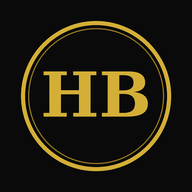
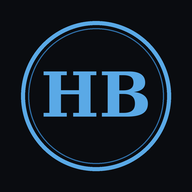
Add files via upload

Changed region(s): [[0.0938, 0.0938, 0.9062, 0.9062], [0.2188, 0.3438, 0.7812, 0.625]]

diff --git a/index.html b/index.html
@@ -1,7 +1,8 @@
 <!DOCTYPE html>
-<html lang="pt-BR">
+<html lang="pt-BR" translate="no">
 <head>
 <meta charset="UTF-8">
+<meta name="google" content="notranslate">
 <meta name="viewport" content="width=device-width, initial-scale=1.0">
 <title>Hércules Barber — Agendamento Online</title>
 <link rel="icon" href="icon-192.png">
@@ -15,7 +16,7 @@
 <link href="https://fonts.googleapis.com/css2?family=Playfair+Display:wght@500;700;900&family=Inter:wght@400;500;600;700&display=swap" rel="stylesheet">
 <style>
 :root{
-  --gold:#d4af37; --gold-light:#f0d878; --gold-dark:#9a7b1f;
+  --gold:#5aa9e6; --gold-light:#a8d4f7; --gold-dark:#2f6fa8;
   --black:#0a0a0a; --dark:#111; --dark2:#1a1a1a; --line:#2a2a2a;
   --text:#eee; --muted:#999;
 }
@@ -27,10 +28,10 @@ img{max-width:100%}
 a{color:var(--gold);text-decoration:none}
 .container{max-width:1100px;margin:0 auto;padding:0 20px}
 .btn{display:inline-block;padding:14px 32px;border-radius:6px;font-weight:600;font-size:15px;cursor:pointer;border:none;transition:.25s;letter-spacing:.5px}
-.btn-gold{background:linear-gradient(135deg,var(--gold-light),var(--gold),var(--gold-dark));color:#111;box-shadow:0 4px 20px rgba(212,175,55,.35)}
-.btn-gold:hover{transform:translateY(-2px);box-shadow:0 8px 28px rgba(212,175,55,.5)}
+.btn-gold{background:linear-gradient(135deg,var(--gold-light),var(--gold),var(--gold-dark));color:#111;box-shadow:0 4px 20px rgba(90,169,230,.35)}
+.btn-gold:hover{transform:translateY(-2px);box-shadow:0 8px 28px rgba(90,169,230,.5)}
 .btn-outline{background:transparent;color:var(--gold);border:1px solid var(--gold)}
-.btn-outline:hover{background:rgba(212,175,55,.1)}
+.btn-outline:hover{background:rgba(90,169,230,.1)}
 .btn-danger{background:transparent;color:#e05c5c;border:1px solid #e05c5c;font-size:13px;padding:7px 14px}
 .btn-danger:hover{background:rgba(224,92,92,.12)}
 .gold-text{background:linear-gradient(135deg,var(--gold-light),var(--gold),var(--gold-dark));-webkit-background-clip:text;background-clip:text;color:transparent}
@@ -46,8 +47,8 @@ header{position:fixed;top:0;left:0;right:0;z-index:100;background:rgba(10,10,10,
 .nav-links a:hover{color:var(--gold)}
 .hamb{display:none;background:none;border:none;color:var(--gold);font-size:26px;cursor:pointer}
 /* HERO */
-.hero{min-height:100vh;display:flex;align-items:center;justify-content:center;text-align:center;background:radial-gradient(ellipse at 50% 30%,#1c1a12 0%,var(--black) 65%);padding:120px 20px 60px}
-.hero-logo{width:min(420px,80vw);border-radius:12px;box-shadow:0 20px 60px rgba(212,175,55,.18);margin-bottom:36px}
+.hero{min-height:100vh;display:flex;align-items:center;justify-content:center;text-align:center;background:radial-gradient(ellipse at 50% 30%,#121a26 0%,var(--black) 65%);padding:120px 20px 60px}
+.hero-logo{width:min(420px,80vw);border-radius:12px;box-shadow:0 20px 60px rgba(90,169,230,.18);margin-bottom:36px}
 .hero h1{font-size:clamp(34px,5.5vw,58px);font-weight:900;letter-spacing:1px}
 .hero p{color:var(--muted);max-width:560px;margin:18px auto 36px;font-size:17px}
 /* SERVICES */
@@ -70,7 +71,7 @@ input:focus,select:focus{outline:none;border-color:var(--gold)}
 .slot.off{opacity:.28;cursor:not-allowed;text-decoration:line-through}
 .slot.off:hover{border-color:var(--line)}
 .slot-empty{color:var(--muted);font-size:14px;padding:8px 0}
-.slot.rec{border:1px dashed rgba(212,175,55,.5);color:var(--gold)} /* ⭐ apenas indica recomendado — NÃO parece selecionado */
+.slot.rec{border:1px dashed rgba(90,169,230,.5);color:var(--gold)} /* ⭐ apenas indica recomendado — NÃO parece selecionado */
 .slot-rec-hint{color:var(--gold-light);font-size:13px;margin-top:12px;font-weight:600;grid-column:1 / -1}
 /* CONFIRM */
 .confirm-box{text-align:center;padding:20px}
@@ -83,7 +84,7 @@ input:focus,select:focus{outline:none;border-color:var(--gold)}
 footer{border-top:1px solid var(--line);padding:40px 0;text-align:center;color:var(--muted);font-size:14px}
 .socials{display:flex;gap:16px;justify-content:center;margin:14px 0}
 .socials a{width:42px;height:42px;border:1px solid var(--line);border-radius:50%;display:flex;align-items:center;justify-content:center;color:var(--gold);transition:.2s}
-.socials a:hover{border-color:var(--gold);background:rgba(212,175,55,.08)}
+.socials a:hover{border-color:var(--gold);background:rgba(90,169,230,.08)}
 .socials svg{width:19px;height:19px;fill:currentColor}
 /* ADMIN */
 .admin-login{max-width:400px;margin:0 auto;background:var(--dark2);border:1px solid var(--line);border-radius:14px;padding:36px}
@@ -93,7 +94,7 @@ footer{border-top:1px solid var(--line);padding:40px 0;text-align:center;color:v
 table{width:100%;border-collapse:collapse;font-size:14px}
 th{text-align:left;color:var(--gold);padding:10px;border-bottom:1px solid var(--line);font-size:12px;text-transform:uppercase;letter-spacing:.5px}
 td{padding:10px;border-bottom:1px solid #1e1e1e}
-.badge{display:inline-block;padding:3px 10px;border-radius:20px;font-size:12px;font-weight:600;background:rgba(212,175,55,.15);color:var(--gold);border:1px solid rgba(212,175,55,.35)}
+.badge{display:inline-block;padding:3px 10px;border-radius:20px;font-size:12px;font-weight:600;background:rgba(90,169,230,.15);color:var(--gold);border:1px solid rgba(90,169,230,.35)}
 .row-flex{display:flex;gap:12px;flex-wrap:wrap}
 .row-flex>*{flex:1;min-width:140px}
 .day-check{display:flex;align-items:center;gap:8px;padding:8px 0;color:var(--text);font-size:14px}
@@ -101,7 +102,7 @@ td{padding:10px;border-bottom:1px solid #1e1e1e}
 .notice{padding:14px 18px;border-radius:8px;font-size:14px;margin-bottom:18px}
 .notice.ok{background:rgba(37,211,102,.1);border:1px solid rgba(37,211,102,.35);color:#7fe0a8}
 .notice.err{background:rgba(224,92,92,.1);border:1px solid rgba(224,92,92,.35);color:#e88}
-.notice.info{background:rgba(212,175,55,.08);border:1px solid rgba(212,175,55,.3);color:var(--gold-light)}
+.notice.info{background:rgba(90,169,230,.08);border:1px solid rgba(90,169,230,.3);color:var(--gold-light)}
 .hidden{display:none!important}
 /* RESPONSIVE */
 @media(max-width:820px){
@@ -518,14 +519,14 @@ function renderTabAg(){
   const recSem=(bookings||[]).filter(b=>b.date>=mSeg&&b.done).reduce((a,b)=>a+Number(b.price||0),0);
   const pendSem=(bookings||[]).filter(b=>b.date>=mSeg&&!b.done).reduce((a,b)=>a+Number(b.price||0),0);
   top='<div style="display:flex;gap:8px;flex-wrap:wrap;margin-bottom:4px">'
-    +'<span class="badge" style="background:rgba(232,197,107,.12);border:1px solid var(--gold);color:var(--gold);padding:8px 14px;border-radius:999px;font-size:14px">📅 Semana — recebido: <b>R$ '+recSem.toFixed(2).replace('.',',')+'</b></span>'
+    +'<span class="badge" style="background:rgba(90,169,230,.12);border:1px solid var(--gold);color:var(--gold);padding:8px 14px;border-radius:999px;font-size:14px">📅 Semana — recebido: <b>R$ '+recSem.toFixed(2).replace('.',',')+'</b></span>'
     +(pendSem>0?'<span class="badge" style="background:rgba(255,255,255,.05);border:1px solid #444;color:var(--muted);padding:8px 14px;border-radius:999px;font-size:14px">⏳ A receber: R$ '+pendSem.toFixed(2).replace('.',',')+'</span>':'')
     +(lastWeekTotal!=null?'<span class="badge" style="background:rgba(255,255,255,.06);border:1px solid #444;color:var(--muted);padding:8px 14px;border-radius:999px;font-size:14px">📆 Semana passada: <b style="color:var(--gold)">R$ '+lastWeekTotal.toFixed(2).replace('.',',')+'</b></span>':'')
     +'</div>'+top;
   const rec={},pend={};
   sorted.forEach(b=>{const t=b.done?rec:pend;t[b.date]=(t[b.date]||0)+Number(b.price||0);});
   const totalHtml=d=>'<div style="display:flex;align-items:center;gap:8px;margin:-2px 0 10px;font-size:14px;flex-wrap:wrap">'
-    +'<span class="badge" style="background:rgba(232,197,107,.12);border:1px solid var(--gold);color:var(--gold);padding:6px 14px;border-radius:999px">💰 Recebido: <b>R$ '+(rec[d]||0).toFixed(2).replace('.',',')+'</b></span>'
+    +'<span class="badge" style="background:rgba(90,169,230,.12);border:1px solid var(--gold);color:var(--gold);padding:6px 14px;border-radius:999px">💰 Recebido: <b>R$ '+(rec[d]||0).toFixed(2).replace('.',',')+'</b></span>'
     +((pend[d]||0)>0?'<span class="badge" style="background:rgba(255,255,255,.05);border:1px solid #444;color:var(--muted);padding:6px 14px;border-radius:999px">⏳ A receber: R$ '+pend[d].toFixed(2).replace('.',',')+'</span>':'')
     +'</div>';
   let html=top,lastDate='';
@@ -773,7 +774,7 @@ function renderTabCfg(){
     +'<br><br><button class="btn btn-gold" onclick="saveCfg()">SALVAR CONFIGURAÇÕES</button><div id="cfgMsg"></div>'
     +'<hr style="border:none;border-top:1px solid #333;margin:24px 0 16px">'
     +'<label>Notificações de novo agendamento</label>'
-    +'<div style="display:flex;align-items:center;gap:10px;flex-wrap:wrap;margin:6px 0 4px"><button id="btnNotif" onclick="enableNotif()" style="background:rgba(232,197,107,.1);border:1px solid var(--gold);color:var(--gold);padding:10px 18px;border-radius:12px;font-size:15px;font-weight:600;cursor:pointer">🔔 Ativar notificações</button></div>'
+    +'<div style="display:flex;align-items:center;gap:10px;flex-wrap:wrap;margin:6px 0 4px"><button id="btnNotif" onclick="enableNotif()" style="background:rgba(90,169,230,.1);border:1px solid var(--gold);color:var(--gold);padding:10px 18px;border-radius:12px;font-size:15px;font-weight:600;cursor:pointer">🔔 Ativar notificações</button></div>'
     +'<small style="color:var(--muted)">Avisa neste aparelho quando um cliente agendar (Android/PC, com o painel aberto).</small>';
   updateNotifBtn();
 }
